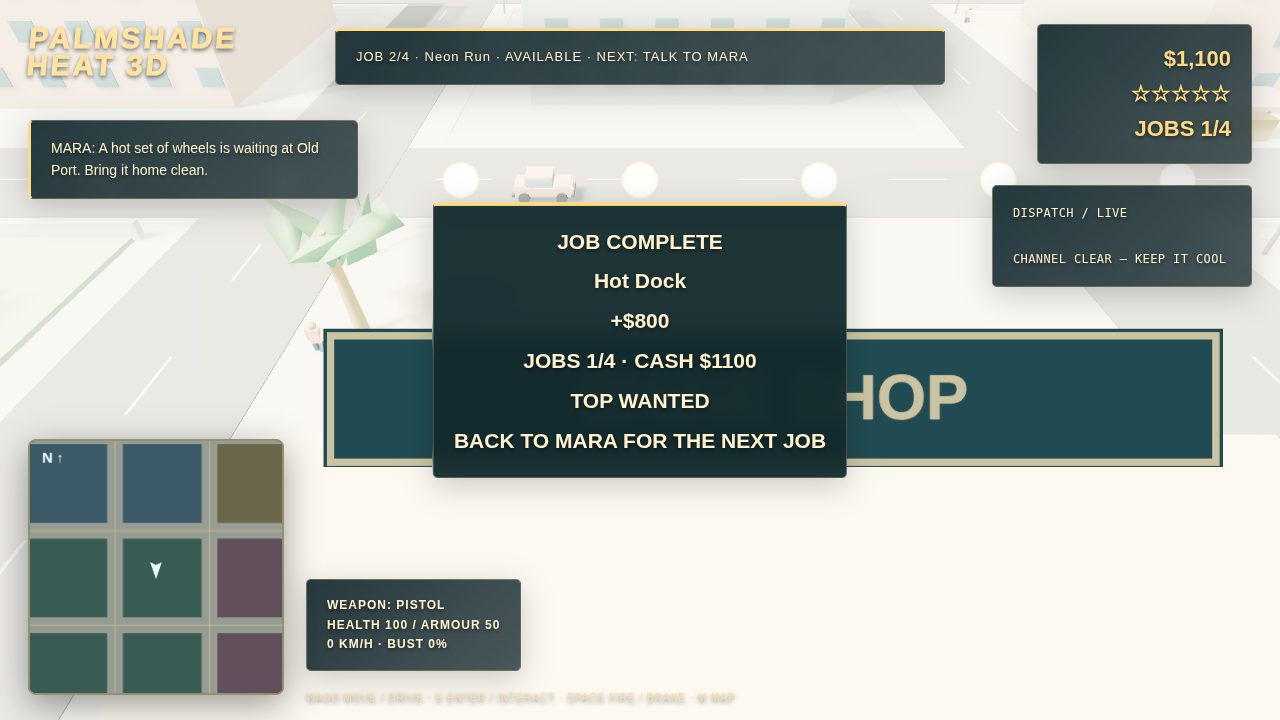
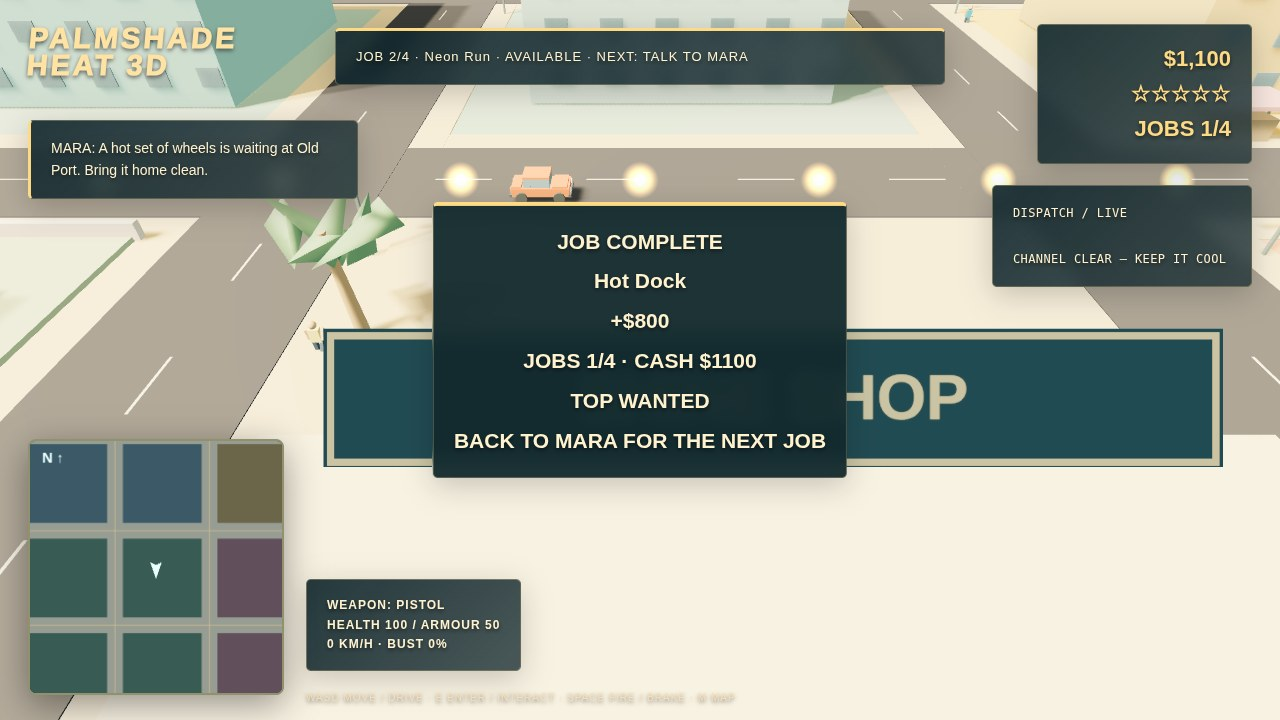
Colour pass: saturated sun-soaked Palmshade — per-district facade + ground palettes, dark asphalt, warm sand sidewalks, teal sea, saturated cars, varied ped clothing + skin tones, thinner warm fog, golden AIR-1 cone; screenshots regenerated

Changed region(s): [[0.0, 0.0, 1.0, 1.0]]

diff --git a/game/src/world.js b/game/src/world.js
@@ -86,22 +86,22 @@ export function buildWorld(scene) {
     return z < 0 ? (x < 0 ? 'Old Port' : 'The Flats') : (x < 0 ? 'Coral Heights' : 'Neon Mile');
   }
 
-  block(0, -0.4, 0, 480, 0.7, 480, 0xb9b88a);
+  block(0, -0.4, 0, 480, 0.7, 480, 0xc79f5f);
   const districts = [
-    { name: 'Old Port', x: -120, z: -120, color: 0xa5b0a2 },
-    { name: 'The Flats', x: 120, z: -120, color: 0xcdb68f },
-    { name: 'Coral Heights', x: -120, z: 120, color: 0xa7b987 },
-    { name: 'Neon Mile', x: 120, z: 120, color: 0xdfc5b3 }
+    { name: 'Old Port', x: -120, z: -120, color: 0x679a7f },
+    { name: 'The Flats', x: 120, z: -120, color: 0xd18f3e },
+    { name: 'Coral Heights', x: -120, z: 120, color: 0x67a34c },
+    { name: 'Neon Mile', x: 120, z: 120, color: 0xda7355 }
   ];
   for (const district of districts) {
     block(district.x, -0.025, district.z, 240, 0.08, 240, district.color);
     billboard(district.name.toUpperCase(), district.x, 30, district.z, 40);
   }
   for (let street = -240; street <= 240; street += 60) {
-    block(street, 0.02, 0, 18, 0.14, 480, 0xbcb9ae);
-    block(0, 0.025, street, 480, 0.14, 18, 0xbcb9ae);
-    block(street, 0.11, 0, 12, 0.08, 480, 0x485258);
-    block(0, 0.115, street, 480, 0.08, 12, 0x485258);
+    block(street, 0.02, 0, 18, 0.14, 480, 0xcfa96a);
+    block(0, 0.025, street, 480, 0.14, 18, 0xcfa96a);
+    block(street, 0.11, 0, 12, 0.08, 480, 0x1f2329);
+    block(0, 0.115, street, 480, 0.08, 12, 0x1f2329);
     for (let stripe = -228; stripe < 240; stripe += 12) {
       if (Math.abs(stripe / 60 - Math.round(stripe / 60)) > 0.12) {
         block(street, 0.16, stripe, 0.18, 0.015, 4.5, 0xeee0a1);
@@ -109,11 +109,17 @@ export function buildWorld(scene) {
       }
     }
   }
-  const facades = [0xe7a792, 0xa7c8be, 0xe1c18b, 0xb6b3d2, 0xc7d8ad, 0xd88f91];
+  const facadePalettes = {
+    'Old Port': [0x64b6ac, 0x8fd0c2, 0x5aa7a0, 0xf2e3c6, 0x7fc4b5],
+    'The Flats': [0xe0a458, 0xd9834f, 0xe8bc7a, 0xc96f4a, 0xe5cfa3],
+    'Coral Heights': [0xf2a65a, 0xef8354, 0xf7c59f, 0xe76f51, 0xf4a261],
+    'Neon Mile': [0xff8fab, 0x7bdff2, 0xb2f7ef, 0xf9c74f, 0xf372b5]
+  };
   for (let x = -210; x <= 210; x += 60) {
     for (let z = -210; z <= 210; z += 60) {
       if ((x === -30 && z === 30) || (x < -150 && z < -90) || (x > 150 && z > 0)) continue;
       const district = districtAt(x, z);
+      const facades = facadePalettes[district];
       const villa = district === 'Coral Heights';
       const height = villa ? 5 + nextRandom() * 4 : 9 + nextRandom() * (district === 'Neon Mile' ? 30 : 19);
       const width = villa ? 22 : 25 + nextRandom() * 10;
@@ -125,7 +131,7 @@ export function buildWorld(scene) {
         palmTree(x - 16, z + 14);
       }
       block(x, height / 2 + 0.2, z, width, height, depth, facades[Math.floor(nextRandom() * facades.length)], true);
-      block(x, height + 0.5, z, width + 1, 0.7, depth + 1, villa ? 0xd67d61 : 0xe6dac4);
+      block(x, height + 0.5, z, width + 1, 0.7, depth + 1, villa ? 0xd67d61 : 0xcf9a68);
       for (let y = 3; y < height - 1; y += 4) {
         for (let offset = -width / 2 + 3; offset < width / 2 - 1; offset += 5) {
           block(x + offset, y, z + depth / 2 + 0.06, 2.1, 1.8, 0.13,
@@ -149,15 +155,15 @@ export function buildWorld(scene) {
   }
 
   // Sand, water and umbrellas along the east side.
-  block(221, 0.02, 123, 35, 0.1, 228, 0xefd39b);
-  block(305, -0.16, 0, 130, 0.12, 700, 0x469fae);
+  block(221, 0.02, 123, 35, 0.1, 228, 0xf2cf8f);
+  block(305, -0.16, 0, 130, 0.12, 700, 0x14919b);
   for (let z = 18; z < 230; z += 23) {
     palmTree(201, z, 8 + nextRandom() * 3);
     placeMesh(new T.ConeGeometry(2.6, 1, 8), z % 2 ? 0xf0aa95 : 0x88c5bc, 223, 2.7, z);
     block(223, 1.2, z, 0.12, 2.4, 0.12, 0xd9c39a);
   }
   // Harbour basin and its repeating dock equipment.
-  block(-219, -0.1, -153, 42, 0.1, 169, 0x438d9c);
+  block(-219, -0.1, -153, 42, 0.1, 169, 0x12768a);
   block(-191, 0.6, -153, 13, 1.2, 168, 0x9a9b8b, true);
   for (const z of [-210, -165, -120]) {
     block(-215, 0.65, z, 44, 1.1, 10, 0x967a59);
@@ -172,7 +178,7 @@ export function buildWorld(scene) {
   billboard('PALMSHADE FERRY', -204, 6, -199, 22);
 
   // Shop forecourt and mission markers.
-  block(-30, 0.2, 29, 42, 0.25, 42, 0xc4b8a0);
+  block(-30, 0.2, 29, 42, 0.25, 42, 0xcfa96a);
   block(-30, 4.3, 43, 30, 8, 12, 0x55bcb5, true);
   block(-30, 8.7, 43, 32, 0.7, 14, 0xf0cf83);
   block(-30, 3.3, 36.9, 11, 5.5, 0.15, 0x294b59);
@@ -192,16 +198,16 @@ export function buildWorld(scene) {
       spawnPoints.push({ x: x - 13, y: 0.2, z: z - 5, heading: -Math.PI / 2, district: districtAt(x - 13, z - 5), kind: 'parked' });
     }
   }
-  const fillLight = new T.HemisphereLight(0xffe3b6, 0x59756d, 1.65);
+  const fillLight = new T.HemisphereLight(0xffe3b6, 0x59756d, 0.7);
   scene.add(fillLight);
-  const sunlight = new T.DirectionalLight(0xffcf91, 2.3);
+  const sunlight = new T.DirectionalLight(0xffc384, 2.2);
   sunlight.position.set(-160, 190, 80);
   sunlight.castShadow = true;
   sunlight.shadow.mapSize.set(2048, 2048);
   Object.assign(sunlight.shadow.camera, { left: -260, right: 260, top: 260, bottom: -260, near: 1, far: 650 });
   scene.add(sunlight);
-  scene.background = new T.Color(0xf0bd99);
-  scene.fog = new T.Fog(0xf0bd99, 170, 540);
+  scene.background = new T.Color(0xf2a56b);
+  scene.fog = new T.Fog(0xf2a56b, 430, 900);
   return {
     root, colliders, shineShopPos, maraPos, ferryPos, districtAt, districts, spawnPoints, labels,
     bounds: { minX: -237, maxX: 237, minZ: -237, maxZ: 237 }, roadSpacing: 60, laneOffset: 3

diff --git a/game/src/main.js b/game/src/main.js
@@ -14,15 +14,15 @@ export async function boot(){
   Object.assign(player,{cash:300,health:100,armour:50,mode:'foot',currentCar:null,speed:0});
   let seed=Number(query.get('seed')??17)>>>0;
   const random=()=>{seed=(Math.imul(seed,1664525)+1013904223)>>>0;return seed/4294967296;};
-  const scene=new T.Scene();scene.background=new T.Color(0xe5aa7d);scene.fog=new T.Fog(0xe5aa7d,100,340);
+  const scene=new T.Scene();scene.background=new T.Color(0xf2a56b);scene.fog=new T.Fog(0xf2a56b,430,900);
   const camera=new T.PerspectiveCamera(shot==='hero'?62:55,innerWidth/innerHeight,.1,650);
   const renderer=new T.WebGLRenderer({antialias:true});renderer.setPixelRatio(Math.min(devicePixelRatio,2));renderer.setSize(innerWidth,innerHeight);renderer.shadowMap.enabled=true;renderer.shadowMap.type=T.PCFSoftShadowMap;
   if(T.ACESFilmicToneMapping!==undefined){renderer.toneMapping=T.ACESFilmicToneMapping;renderer.toneMappingExposure=1.15;}
-  document.getElementById('game').append(renderer.domElement);scene.add(new T.HemisphereLight(0xffedcc,0x456c78,2));
-  const sun=new T.DirectionalLight(0xffd49a,3);sun.position.set(-70,110,55);sun.castShadow=true;sun.shadow.mapSize.set(2048,2048);Object.assign(sun.shadow.camera,{left:-160,right:160,top:160,bottom:-160,far:400});scene.add(sun);
+  document.getElementById('game').append(renderer.domElement);scene.add(new T.HemisphereLight(0xffe3b3,0x3f6d78,0.65));
+  const sun=new T.DirectionalLight(0xffbe78,2.6);sun.position.set(-70,110,55);sun.castShadow=true;sun.shadow.mapSize.set(2048,2048);Object.assign(sun.shadow.camera,{left:-160,right:160,top:160,bottom:-160,far:400});scene.add(sun);
   const world=buildWorld(scene);spawnTraffic(scene,world,30,{seed:query.get('seed')??1});
-  function humanoid(color){
-    const mesh=new T.Group(),limbs=[],material=new T.MeshStandardMaterial({color}),skin=new T.MeshStandardMaterial({color:0xb77c56});
+  function humanoid(color,skinTone=0xb77c56){
+    const mesh=new T.Group(),limbs=[],material=new T.MeshStandardMaterial({color}),skin=new T.MeshStandardMaterial({color:skinTone});
     const body=new T.Mesh(new T.BoxGeometry(.6,.85,.38),material);body.position.y=1.1;mesh.add(body);
     const head=new T.Mesh(new T.SphereGeometry(.24,10,8),skin);head.position.y=1.78;mesh.add(head);
     for(const side of [-1,1]){
@@ -39,7 +39,7 @@ export async function boot(){
   addEventListener('keyup',e=>keys.delete(e.code));addEventListener('blur',()=>keys.clear());
   const peds=[];
   for(let i=0;i<38;i++){
-    const mesh=humanoid([0xefb95c,0xe67b77,0x67bdb1,0xd5d4b9][i%4]),street=(Math.floor(random()*7)-3)*60;
+    const mesh=humanoid([0xef476f,0xffd166,0x06d6a0,0x118ab2,0xf77f00,0x9b5de5,0xef8354,0x4cc9f0][i%8],[0x8a5a3b,0xb77c56,0x6e4530,0xd9a066,0x54382a,0xc98d5f][i%6]),street=(Math.floor(random()*7)-3)*60;
     mesh.position.set(i%2?street+8:(random()-.5)*420,0,i%2?(random()-.5)*420:street+8);peds.push({mesh,state:'walk',fear:0,heading:i%2?0:Math.PI/2,index:i});
   }
   function frighten(position){for(const ped of peds)if(ped.mesh.position.distanceTo(position)<48){ped.fear=7;ped.state=ped.index%2?'flee':'cower';ped.heading=Math.atan2(ped.mesh.position.x-position.x,ped.mesh.position.z-position.z);}}

diff --git a/game/src/police.js b/game/src/police.js
@@ -58,9 +58,9 @@ export function createPolice(T, scene, player, effects) {
     tail.position.z = 4;
     mesh.add(tail);
     scene.add(mesh);
-    const cone = new T.Mesh(new T.ConeGeometry(11, 30, 32, 1, true), new T.MeshBasicMaterial({ color: 0xffefb4, transparent: true, opacity: .13, depthWrite: false, side: T.DoubleSide, blending: T.AdditiveBlending }));
+    const cone = new T.Mesh(new T.ConeGeometry(11, 30, 32, 1, true), new T.MeshBasicMaterial({ color: 0xffbe55, transparent: true, opacity: .12, depthWrite: false, side: T.DoubleSide, blending: T.AdditiveBlending }));
     scene.add(cone);
-    const glow = new T.Mesh(new T.CircleGeometry(10, 40), new T.MeshBasicMaterial({ color: 0xffefb4, transparent: true, opacity: .2, depthWrite: false, blending: T.AdditiveBlending }));
+    const glow = new T.Mesh(new T.CircleGeometry(10, 40), new T.MeshBasicMaterial({ color: 0xffbe55, transparent: true, opacity: .15, depthWrite: false, blending: T.AdditiveBlending }));
     glow.rotation.x = -Math.PI / 2;
     scene.add(glow);
     return { mesh, rotor, cone, glow, callsign: 'AIR-1', role: 'SEARCH' };

diff --git a/game/src/vehicles.js b/game/src/vehicles.js
@@ -1,7 +1,7 @@
 // Heading zero faces +Z; signed speed is measured in metres per second.
 // Each car shares its position vector with its mesh. Traffic advances every frame.
 export const cars = [];
-export const CAR_COLORS = [0xef8c78, 0x67b9b3, 0xf1cf7f, 0xb7a1cb, 0x91b67c, 0xe4d9bd, 0x537b9a];
+export const CAR_COLORS = [0xe8492f, 0xf2a007, 0x1f9e8f, 0x2f6fd0, 0xd63384, 0x37b24d, 0xffd43b, 0x845ef7];
 let serial = 1;
 let trafficSeed = 981731;
 function nextRandom() {
